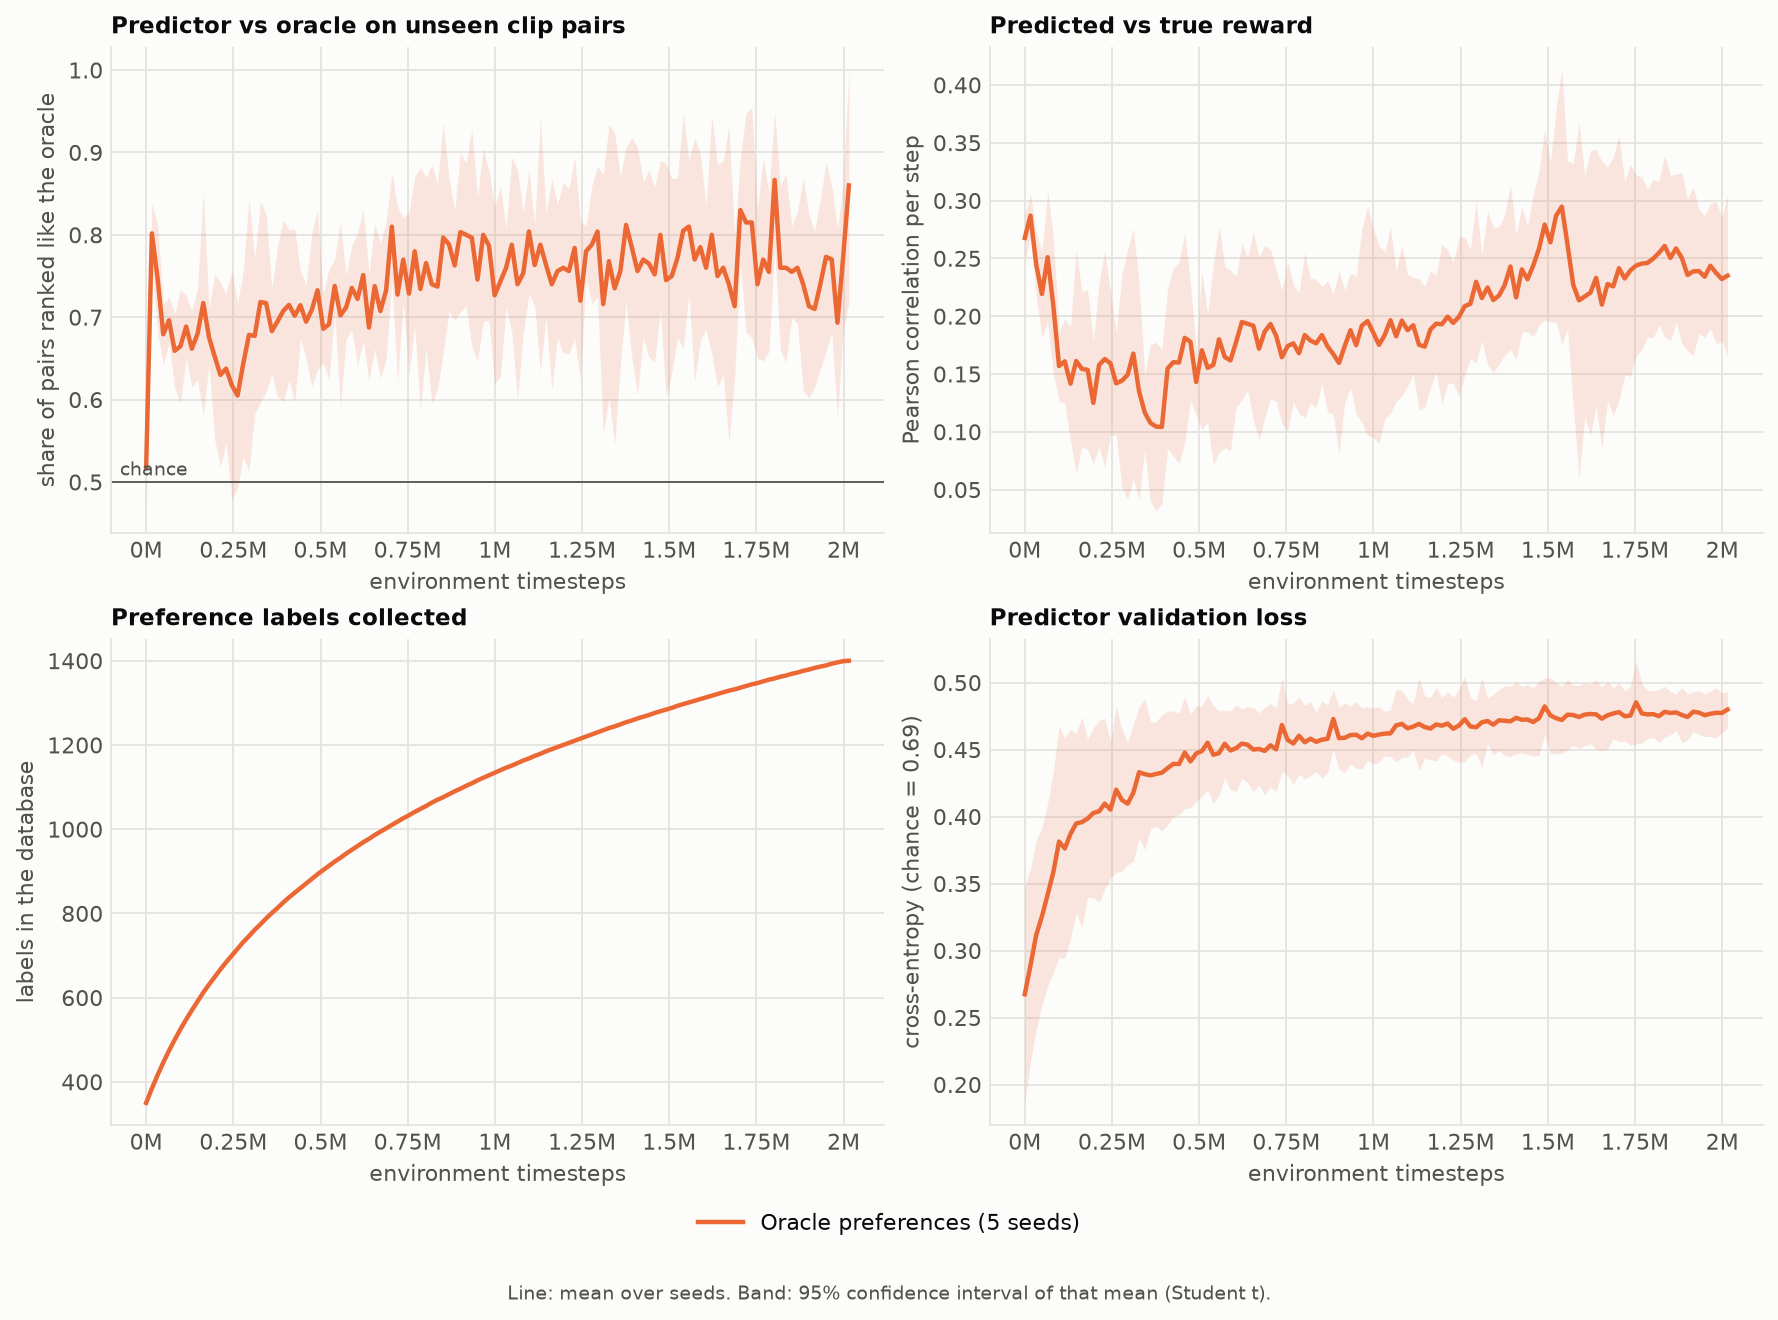
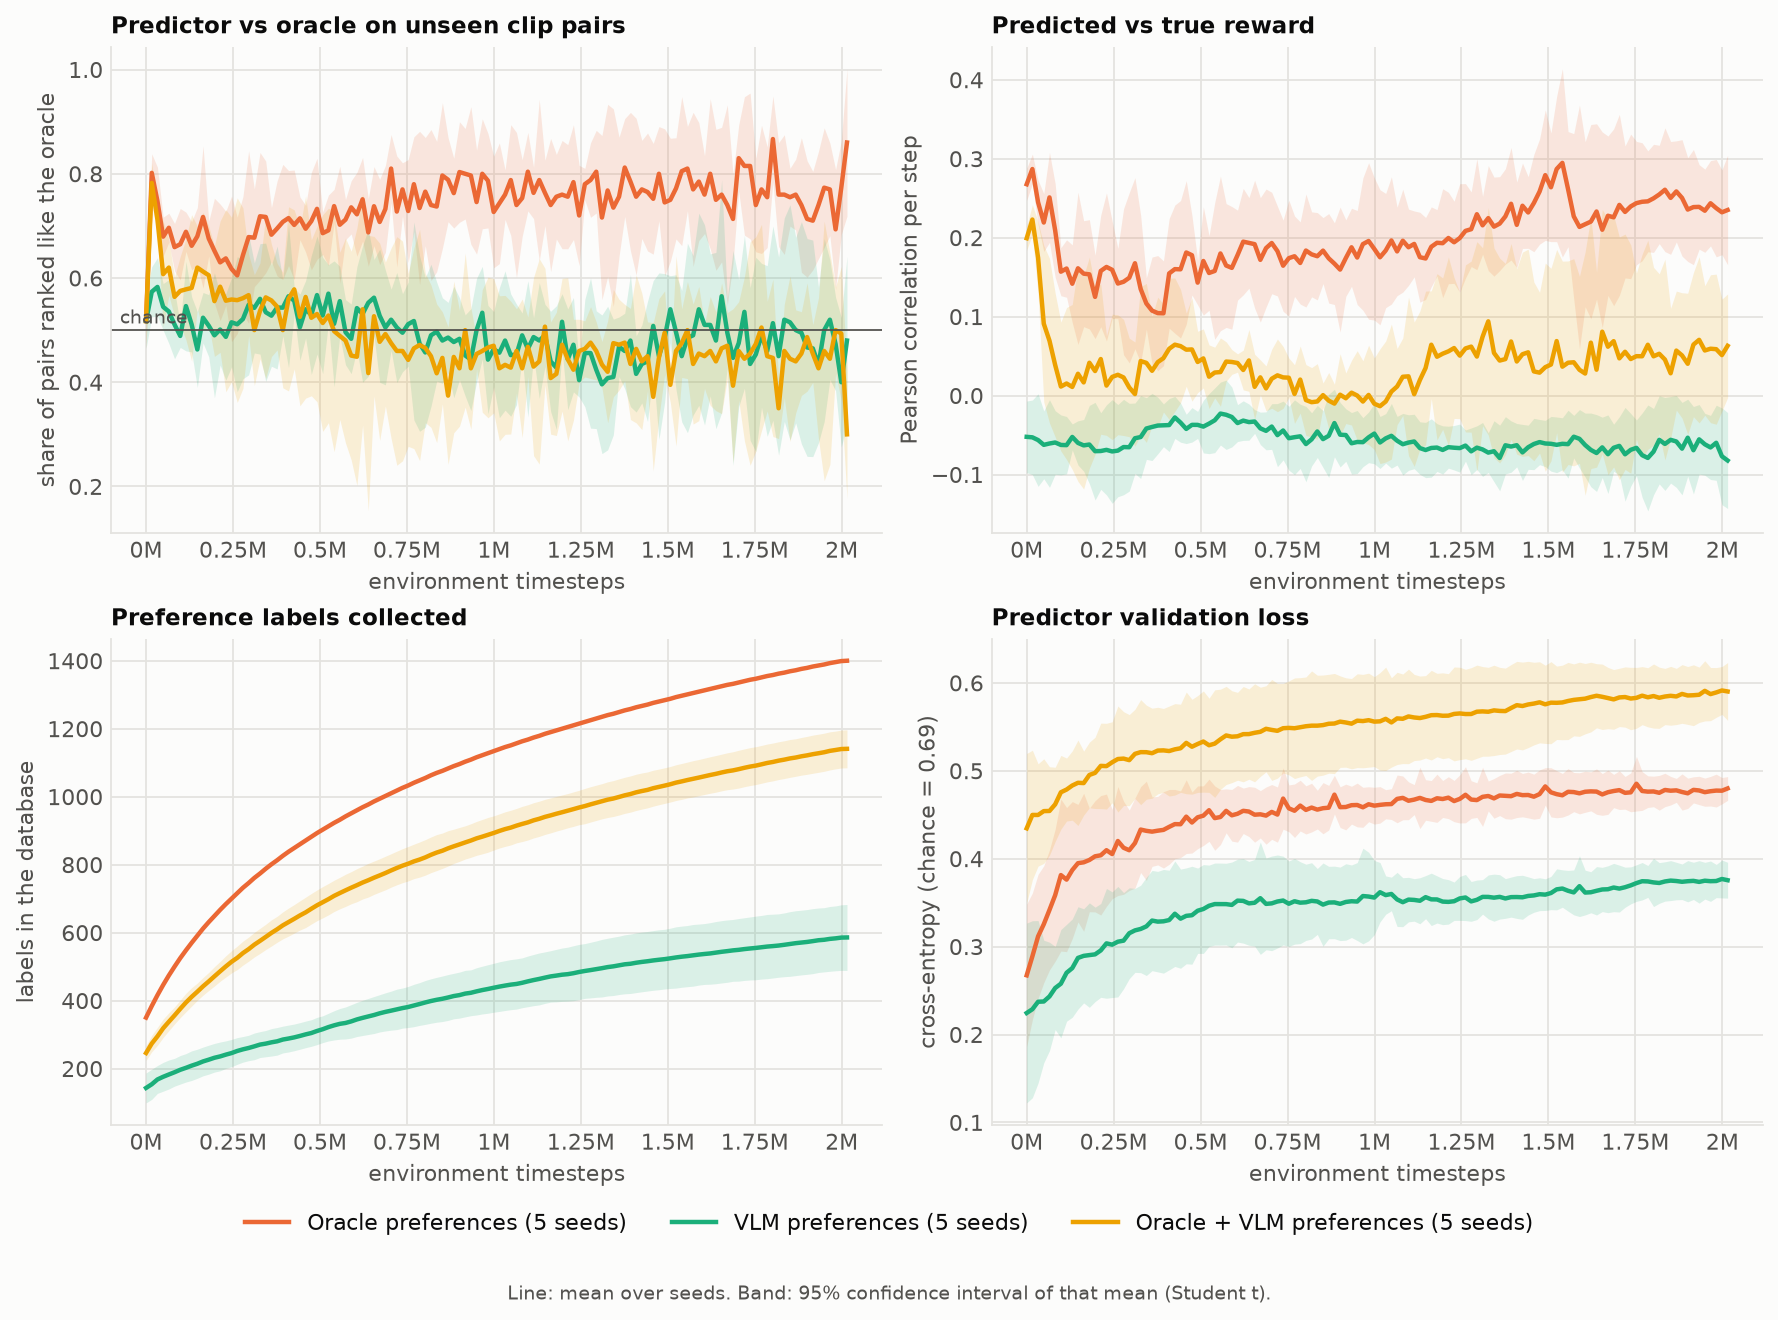
Final results: all four conditions, five seeds each
Run 20261112-prefrl-lunarlander-42961b is complete (20/20 runs with a
summary.json; Slurm steps 26911.397 and 26911.434 exit 0).

Final return on the true reward, mean over 5 seeds [95% CI]:
  PPO on true reward   273.3 [265.8, 280.8]
  Oracle preferences   102.7 [-7.8, 213.2]
  VLM preferences       52.7 [-176.9, 282.3]
  Oracle + VLM 50/50   173.3 [53.6, 292.9]

- docs/results.md: results, VLM label analysis, calibration table, caveats;
  the first attempt is kept below as a record.
- results/plots: figures and summary.csv for all four conditions,
  regenerated with prefrl.plot from the run outputs.
- configs/default.yaml: the VLM settings the runs used (progress prompt,
  out-of-view marker) are now the defaults; calibration variants name
  their prompt explicitly so they keep their meaning.

Validation: pytest, 13 passed (OMP_NUM_THREADS=2).

diff --git a/docs/results.md b/docs/results.md
@@ -1,3 +1,152 @@
+# Results
+
+Run `20261112-prefrl-lunarlander-42961b`, 12-13 November 2026. Four conditions, five seeds each, 2M timesteps per
+run, 1,400 preference queries per learned-reward run, policy and value networks with two hidden layers of 64.
+Method and configuration are in the [README](../README.md). The first attempt, with a one-layer policy, is kept
+[at the end](#first-attempt-superseded-one-hidden-layer-policy).
+
+## Summary
+
+| condition | final return, mean [95% CI] | per seed | successful landings | labels obtained |
+|---|---|---|---|---|
+| PPO on true reward | 273 [266, 281] | 273, 278, 264, 273, 279 | 97% | none needed |
+| Oracle preferences | 103 [-8, 213] | 25, 127, 72, 246, 43 | 38% | 1,400 of 1,400 |
+| VLM preferences (Qwen2.5-VL-7B) | 53 [-177, 282] | -107, 4, 259, 236, -128 | 37% | 586 of 1,400 on average |
+| Oracle + VLM, 50/50 | 173 [54, 293] | 6, 248, 183, 207, 222 | 56% | 1,141 of 1,400 on average |
+
+Final return is the mean over 100 evaluation episodes of the deterministic final policy, scored with the true
+environment reward; 200 counts as solved. Intervals are Student-t 95% intervals of the mean over the five seeds.
+
+- PPO on the true reward solves the task in every seed.
+- Learning from preferences works in some seeds and not in others, for every rater. The oracle solves it in one
+  seed of five, the VLM alone in two, the 50/50 mix in three (a fourth reaches 183).
+- The only difference the intervals support is that the true reward beats oracle preferences. The three
+  learned-reward conditions cannot be ranked with five seeds, and neither the VLM nor the mix can be separated
+  from the true-reward baseline, because their intervals are so wide.
+- The VLM agrees with the oracle on only about half of its labels, yet two VLM-only seeds land in 90% of episodes.
+  The VLM teaches a different reward from the environment's, and that reward can still lead to landing.
+
+![Evaluation return during training](../results/plots/learning_curves.png)
+
+![Final return and landing rate](../results/plots/final_performance.png)
+
+Other figures in [results/plots/](../results/plots/): `learning_curves_per_seed.png`, `training_return.png`,
+`reward_predictor.png`, `vlm_labels.png`, and the table `summary.csv`.
+
+## What happened in each condition
+
+**True reward.** All five seeds pass 200 between 0.46M and 0.70M timesteps and end at 264-279.
+
+**Oracle preferences.** All 1,400 queries were answered. The reward predictor ranks unseen clip pairs like the
+oracle 71-78% of the time. Seed 3 is solved by 0.46M timesteps (246, 89% landings). The other four improve slowly
+to 25-127 and land in 0-53% of episodes. The paper reports oracle labels close to RL;
+this implementation does not reach that, and the cause was not found (label budget, label schedule and predictor
+settings were not tuned; changing the l2 coefficient did not change held-out accuracy).
+
+**VLM preferences.** 42% of queries produced a label, because both clip orders have to give the same answer.
+
+| seed | final return | landings | what the final policy does |
+|---|---|---|---|
+| 2 | 259 | 91% | lands on the pad |
+| 3 | 236 | 90% | lands on the pad |
+| 1 | 4 | 0% | reaches the pad and stays there without shutting down until the 1,000-step limit; it scored 179 at 1.75M |
+| 0 | -107 | 0% | falls and crashes next to the pad within about 70 steps |
+| 4 | -128 | 2% | crashes within about 160 steps |
+
+No seed flies out of view any more (the worst single episode of the final evaluations is -377; in the first attempt four seeds averaged
+-1,600 to -4,800). The out-of-view marker fixed that failure.
+
+**Oracle + VLM.** Half the queries went to each rater. Seeds 1, 3 and 4 end at 207-248 with 66-90% landings. Seed 2
+ends at 183 (best evaluation 267) and seed 0 at 6; seed 0 sits on the pad without shutting down, and most of seed
+2's episodes also run close to the time limit. The VLM's labels
+in these runs agree with the oracle only 39-46% of the time.
+
+## What the VLM's labels are
+
+**Agreement with the oracle falls to chance or below once training starts.**
+
+| VLM-answered queries | phase | queries | got a label | agrees with oracle |
+|---|---|---|---|---|
+| VLM-only runs | before RL (random policy) | 1,750 | 41% | 68% of 703 |
+| | first 0.5M timesteps | 2,715 | 31% | 51% of 830 |
+| | after 0.5M timesteps | 2,535 | 54% | 48% of 1,374 |
+| mixed runs | before RL (random policy) | 884 | 41% | 72% of 355 |
+| | first 0.5M timesteps | 1,364 | 60% | 42% of 818 |
+| | after 0.5M timesteps | 1,270 | 82% | 30% of 1,036 |
+
+Ties are almost gone (35 of 10,518 VLM queries; the first attempt had over 1,300).
+
+**The VLM rewards where the lander ends up; the environment rewards how much it improved.** LunarLander's reward
+pays for getting closer, slower and more upright during the clip, so a lander already resting on the pad earns
+nothing. Scoring each clip with the environment's own "how good is this state" term, for queries after 0.5M
+timesteps:
+
+| the preferred clip is the one that ... | VLM, VLM-only runs | oracle, same pairs | VLM, mixed runs | oracle, same pairs |
+|---|---|---|---|---|
+| ends in the better state | 65% | 60% | 82% | 39% |
+| improves more during the clip | 44% | 74% | 35% | 87% |
+
+This is why low agreement did not stop learning. A reward that pays for being low, slow, upright and on the pad
+is not the environment's reward, but maximising it also produces landings. In the two VLM-only seeds that solved
+the task, the learned reward ranks clips like the oracle only 39-40% of the time. Agreement with the oracle is
+therefore a poor guide to whether VLM labels are useful here.
+
+It also explains the typical failure: a policy that reaches the pad and stays there with engines running (VLM
+seed 1, mixed seed 0) is in a "good state" in every clip. Why the mix did better than either rater alone
+is not established; one reading is that the oracle's labels reward the approach and the VLM's reward arriving.
+
+## Prompt tuning before the runs
+
+Each variant was scored against the oracle on clip pairs from a true-reward PPO run (early, mid and late thirds of
+training) and on pairs where one clip shows a lander that has flown out of view ("away"). Agreement is over labels
+that pick a clip. Scores: [results/calibration/calibration.csv](../results/calibration/calibration.csv).
+
+| model | variant | early | mid | late | away | prefers the out-of-view clip |
+|---|---|---|---|---|---|---|
+| 7B | `direct` (first attempt's setup) | 56% | 30% | 31% | 57% | 43% |
+| 7B | `direct` + marker | 58% | 31% | 27% | 93% | 7% |
+| 7B | **`progress` + marker (used)** | 55% | 34% | 27% | 100% | 0% |
+| 7B | `reasoned` + marker | 64% | 23% | 6% | 100% | 0% |
+| 7B | start/end frames only + marker | 47% | 31% | 22% | 100% | 0% |
+| 32B | `progress` + marker | 60% | 33% | 27% | 100% | 0% |
+| 32B | start/end frames only + marker | 55% | 40% | 42% | 100% | 0% |
+
+The marker writes "LANDER OUT OF VIEW" on frames where the lander has left the picture. It is a presentation aid,
+not information about the reward. No prompt and neither model size raised agreement on mid and late clips above
+chance, for the reason in the previous section. The 7B rows use 334 pairs, the 32B rows 160. The start/end
+variant was a one-off test and is not in `configs/prompts.yaml`.
+
+## Caveats
+
+- Five seeds, wide intervals: see the summary for what they support.
+- The 50/50 mixing ratio is a placeholder. The paper never mixes raters, so it gives no ratio.
+- The oracle condition is well below the paper's result and below the true-reward baseline.
+- PPO replaces the paper's TRPO; the policy has two hidden layers of 64 (see the first attempt for why).
+- One VLM, 8 frames per clip, answer-only prompt. The VLM conditions end with fewer labels than the oracle
+  condition because unanswered queries still count against the budget.
+- "Agreement with the oracle" measures agreement with LunarLander's reward, which rewards progress within a clip.
+
+## How it was run
+
+Slurm steps inside the 1-GPU allocation on bodhanai-node040 (job 26911), code revision `42961bd`:
+
+| step | what | when (IST) | result |
+|---|---|---|---|
+| 26911.397 | true-reward and oracle runs (CPU) | 12 Nov 19:34-20:06 | exit 0, 10 runs |
+| 26911.398-402 | calibration, 7B and 32B | 12 Nov 19:34-20:08 | exit 0 (one failed start, rerun) |
+| 26911.405 | VLM and mixed runs | 12 Nov 23:54-00:35 | stopped on request; partial runs set aside |
+| 26911.434 | VLM and mixed runs, from the start | 13 Nov 14:27-16:33 | exit 0, 10 runs |
+
+The VLM runs were launched with `--set vlm.prompt=progress vlm.mark_out_of_view=true`; these are now the defaults
+in `configs/default.yaml`. Three VLM runs shared the GPU at a time (about 22 GB each). All 20 runs have a
+`summary.json`.
+
+Everything is copied to `results/`: per-run files and videos under `results/runs/<condition>/seed_<n>/` (on disk
+only, 178 MB, 1,974 videos), figures and `summary.csv` under `results/plots/`, calibration under
+`results/calibration/`. Figures were regenerated with `python -m prefrl.plot`.
+
+---
+
 # First attempt (superseded): one-hidden-layer policy
 
 > These are the results of the first attempt, kept as a record of why the setup changed. Its runs, videos and

diff --git a/README.md b/README.md
@@ -15,10 +15,11 @@ Four conditions, five seeds each:
 | `vlm` | learned predictor | Qwen2.5-VL |
 | `mixed` | learned predictor | each query: oracle with probability `oracle_fraction`, else Qwen2.5-VL |
 
-**Status (2026-11-12, evening): second attempt in progress.** The first attempt used a policy with one hidden layer
-of 64 units, which turned out to cap even true-reward PPO at about 166; with two hidden layers it reaches about 270.
-The first attempt's runs were deleted and everything is being rerun with the two-layer policy and a re-tuned VLM
-prompt. What the first attempt showed is kept in [docs/results.md](docs/results.md).
+**Status (2026-11-13): finished.** All 20 runs are complete. Final return on the true reward, mean over five seeds
+with a 95% confidence interval: PPO on the true reward 273 [266, 281]; oracle preferences 103 [-8, 213]; VLM
+preferences 53 [-177, 282], with two of five seeds solving the task; oracle + VLM 173 [54, 293]. Full results,
+figures and analysis: [docs/results.md](docs/results.md). An earlier attempt with a one-layer policy is recorded at
+the end of that document.
 
 ## How it follows the paper
 
@@ -89,8 +90,9 @@ slurm/launch.sh plot <run>                  # can be run while training is in pr
 
 `calibrate` scores each variant in `calibration.variants` against the oracle on clip pairs from a true-reward PPO
 run (early, mid and late training) and on pairs with a lander that has flown out of view. `agreement` near 0.5 in
-any of these groups means the VLM cannot judge those clips and the `vlm` condition should not be expected to learn. To adopt a variant, copy its settings into `vlm:` in `default.yaml`,
-commit, and `prepare` a new run.
+any of these groups means the VLM does not rank those clips the way the environment reward does (which, as the
+results show, does not by itself rule out learning). To adopt a variant, copy its settings into `vlm:` in
+`default.yaml`, commit, and `prepare` a new run.
 
 GPU stages run as `srun --overlap` steps in Slurm job `ALLOC` (default 26911, the 1-GPU / 16-CPU allocation on
 bodhanai-node040). Runs execute a read-only snapshot of the committed code under `<run>/code`, never this checkout.
